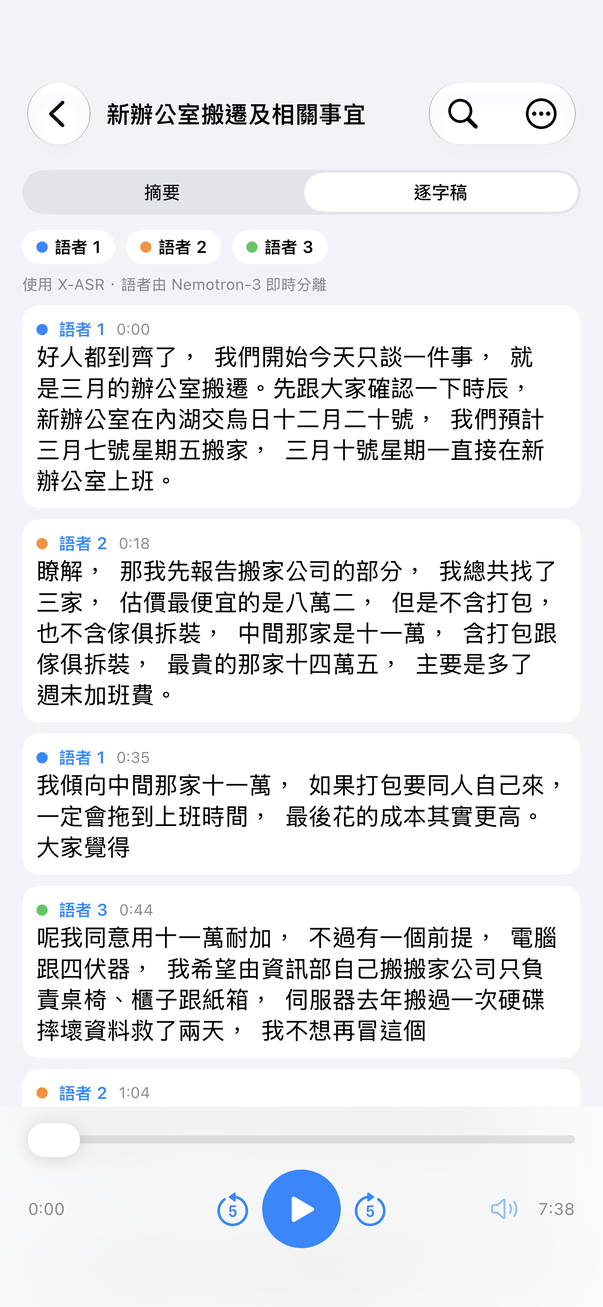
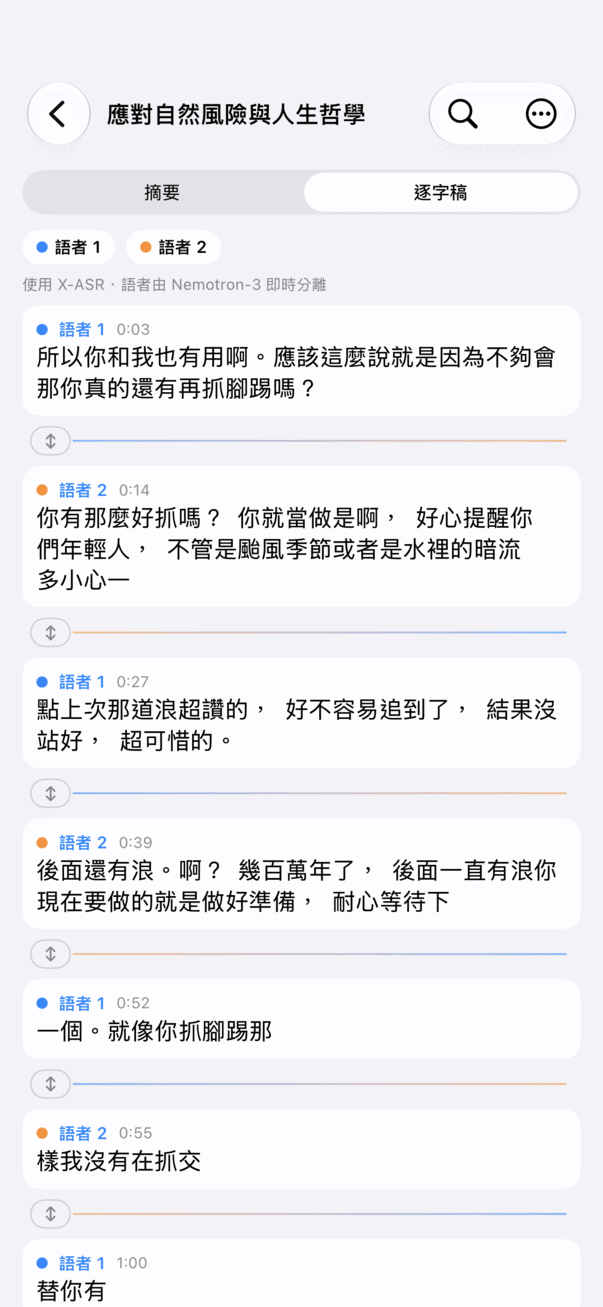
ios docs: guide matches the current UI: transcript (⇕ boundary handles), speaker picker and line editor reshot on iPhone 14 Pro Max (light, zh-TW); Settings shots downscaled to 603 px; screen tree gains library search/Ask, in-meeting search/Ask, contacts and Email participants; Settings table gains 

diff --git a/docs/USER_GUIDE.md b/docs/USER_GUIDE.md
@@ -5,7 +5,7 @@
 - **使用說明**：每一節介紹一個畫面。
 - **測試地圖**：每一節最後的表格列出該畫面上的每個操作（節點）、進入方式、預期結果與驗證狀態。
 
-驗證欄：✅ 手動＝在 iPhone 14 Pro Max 上實際操作確認；⬜＝尚未在實機驗證（已編譯）。截圖取自 iPhone 17 Pro 模擬器（iOS 26，示範音訊）。
+驗證欄：✅ 手動＝在 iPhone 14 Pro Max 上實際操作確認；⬜＝尚未在實機驗證（已編譯）。截圖取自 iPhone 14 Pro Max（淺色主題、繁體中文介面、中文示範會議）；少數較早的截圖取自 iPhone 17 Pro 模擬器（iOS 26）。
 與 Android 的差異：沒有 YouTube、App 內更新、NPU 選項與中斷復原對話框（佇列會自動接續）。
 
 畫面結構：
@@ -16,12 +16,14 @@ flowchart TD
     Home -->|"⋯"| RowMenu["場次選單<br/>開啟・重新命名・分享音訊・刪除"]
     Home -->|"佇列列 ⋯"| QueueMenu["佇列選單<br/>立即處理・繼續／重試・從佇列移除・停止處理"]
     Home -->|長按| Select["多選模式<br/>全選・刪除"]
+    Home -->|"搜尋框・提問"| Ask["依語意搜尋・向會議提問"]
     Home -->|＋| Add["加入音訊"]
     Add --> File["音訊檔案"]
     Add --> Podcast["Podcast"]
     Add --> Open["開啟場次 .m4a"]
     Home -->|設定圖示| Settings["設定"]
     Settings --> People["說話者名錄<br/>辨識聲音・人物頁"]
+    People --> Contact["人物頁：聯絡人・電子郵件"]
     Home -->|錄音| Booth["錄音室<br/>即時逐字稿・AI 筆記"]
     Booth -->|停止| Session
     Home -->|點場次| Session["場次"]
@@ -30,9 +32,11 @@ flowchart TD
     Open --> Session
     Session --> Summary["摘要分頁<br/>摘要・待辦・語者比例"]
     Session --> Transcript["逐字稿分頁<br/>點句播放・長按選單・語者改名"]
+    Transcript -->|"放大鏡・✦"| MSearch["在這場會議內搜尋・問這場會議"]
     Transcript -->|"⇕"| Boundary["語者分界<br/>拖曳・點字・‹ ›・試聽・從這裡分開・復原"]
     Session --> Player["播放列<br/>播放・±5 秒・進度・音量"]
-    Session -->|"⋯"| More["分享逐字稿・匯出・重新轉錄・重新摘要"]
+    Session -->|"⋯"| More["分享逐字稿・匯出・寄給與會者・問這場會議・重新轉錄・重新摘要"]
+    More --> Mail["寄給與會者<br/>收件人・內容・附件・預覽"]
     More --> Export["匯出<br/>.m4a・PDF・MD・TXT・SRT・VTT・LRC"]
 ```
 
@@ -158,7 +162,7 @@ flowchart TD
 | 長按 → 編輯 | 修改文字並儲存 | ⬜ |
 | 長按 → 移給語者 | 這句改派給另一位語者 | ⬜ |
 | 長按 → 合併語者 | 先確認；該語者全部併入另一位，下方「已合併語者」橫幅 8 秒內可點 **復原**（移動單句同樣可復原） | ✅ 手動（iPhone 14 Pro Max，DEV 觸發：確認框與復原橫幅） |
-| 語者改名 | 點語者名稱：從說話者名錄選人或新增（第 9 節） | ✅ 手動（iPhone 14 Pro Max） |
+| 語者改名 | 點語者名稱：「語者 N 是誰？」面板，從說話者名錄選人、輸入新名字或從聯絡人選擇（第 9 節） | ✅ 手動（iPhone 14 Pro Max） |
 | 修改後 | 有摘要時提示「逐字稿已變更，要重新摘要嗎？」 | ⬜ |
 | 搜尋（放大鏡）→ ≈ | 關閉 ≈：找出含有搜尋字詞的句子；開啟 ≈（搜尋模型已下載時）：也找出意思相近的句子 | ✅ 手動（iPhone 14 Pro Max） |
 
@@ -210,6 +214,8 @@ flowchart TD
 | ⋯ → 分享逐字稿 | 系統分享面板（純文字） | ⬜ |
 | ⋯ → 匯出 | 選格式；`.m4a` 場次匯出時顯示「匯出中」；失敗時提示 | ✅ 手動 |
 | 匯出格式 | TXT（略過空行）、MD（標題、摘要、逐字稿條列）、SRT／VTT（每段 ≤32 字）、LRC、PDF | ✅ 手動 |
+| ⋯ → 問這場會議 | 只用這場會議作答（第 6b 節） | ✅ 手動 |
+| ⋯ → 寄給與會者… | 寄送面板（第 9a 節） | ✅ 裝置 |
 | ⋯ → 重新轉錄 | 重跑語音辨識與語者分離 | ⬜ |
 | ⋯ → 重新摘要 | 保留逐字稿與語者名稱；完成時畫面即時更新並顯示「新摘要已完成 · 復原」 | ✅ 手動 |
 
@@ -224,6 +230,7 @@ flowchart TD
 | 文字大小 | 整個 App 的文字縮放 | ⬜ |
 | 語者標註延遲 | 5–30 秒（預設 15） | ⬜ |
 | 語音轉寫延遲 | 0.16／0.48／0.96／1.92 秒（預設 1.92 秒），滑桿四段：最快、最不準／快／平衡／最準確。延遲越長，文字越準確（即時顯示與儲存的逐字稿皆是）；選擇新的延遲會在背景下載對應的語音模型（約 155 MB），下載完成前使用已安裝中最接近的模型 | ✅ 手動（iPhone 14 Pro Max，畫面） |
+| 說話者名錄 | 開啟說話者名錄（第 9 節），顯示已命名的人數 | ✅ 手動 |
 | AI 筆記模型 | E2B（預設）或 E4B（6 GB 以上 RAM 的 iPhone；載入時可用記憶體低於 2.5 GB 則該次改用 E2B） | ✅ 手動 |
 | 硬體狀態列 | 錄音時在錄音室標題列右側、處理時在即時畫面的狀態列右側顯示 CPU、記憶體、電池；首頁不顯示 | ✅ 手動（iPhone 14 Pro Max） |
 | 推論執行緒 | 自動（首次一秒測試）或手動；載入失敗時自動降低 | ✅ 手動 |
